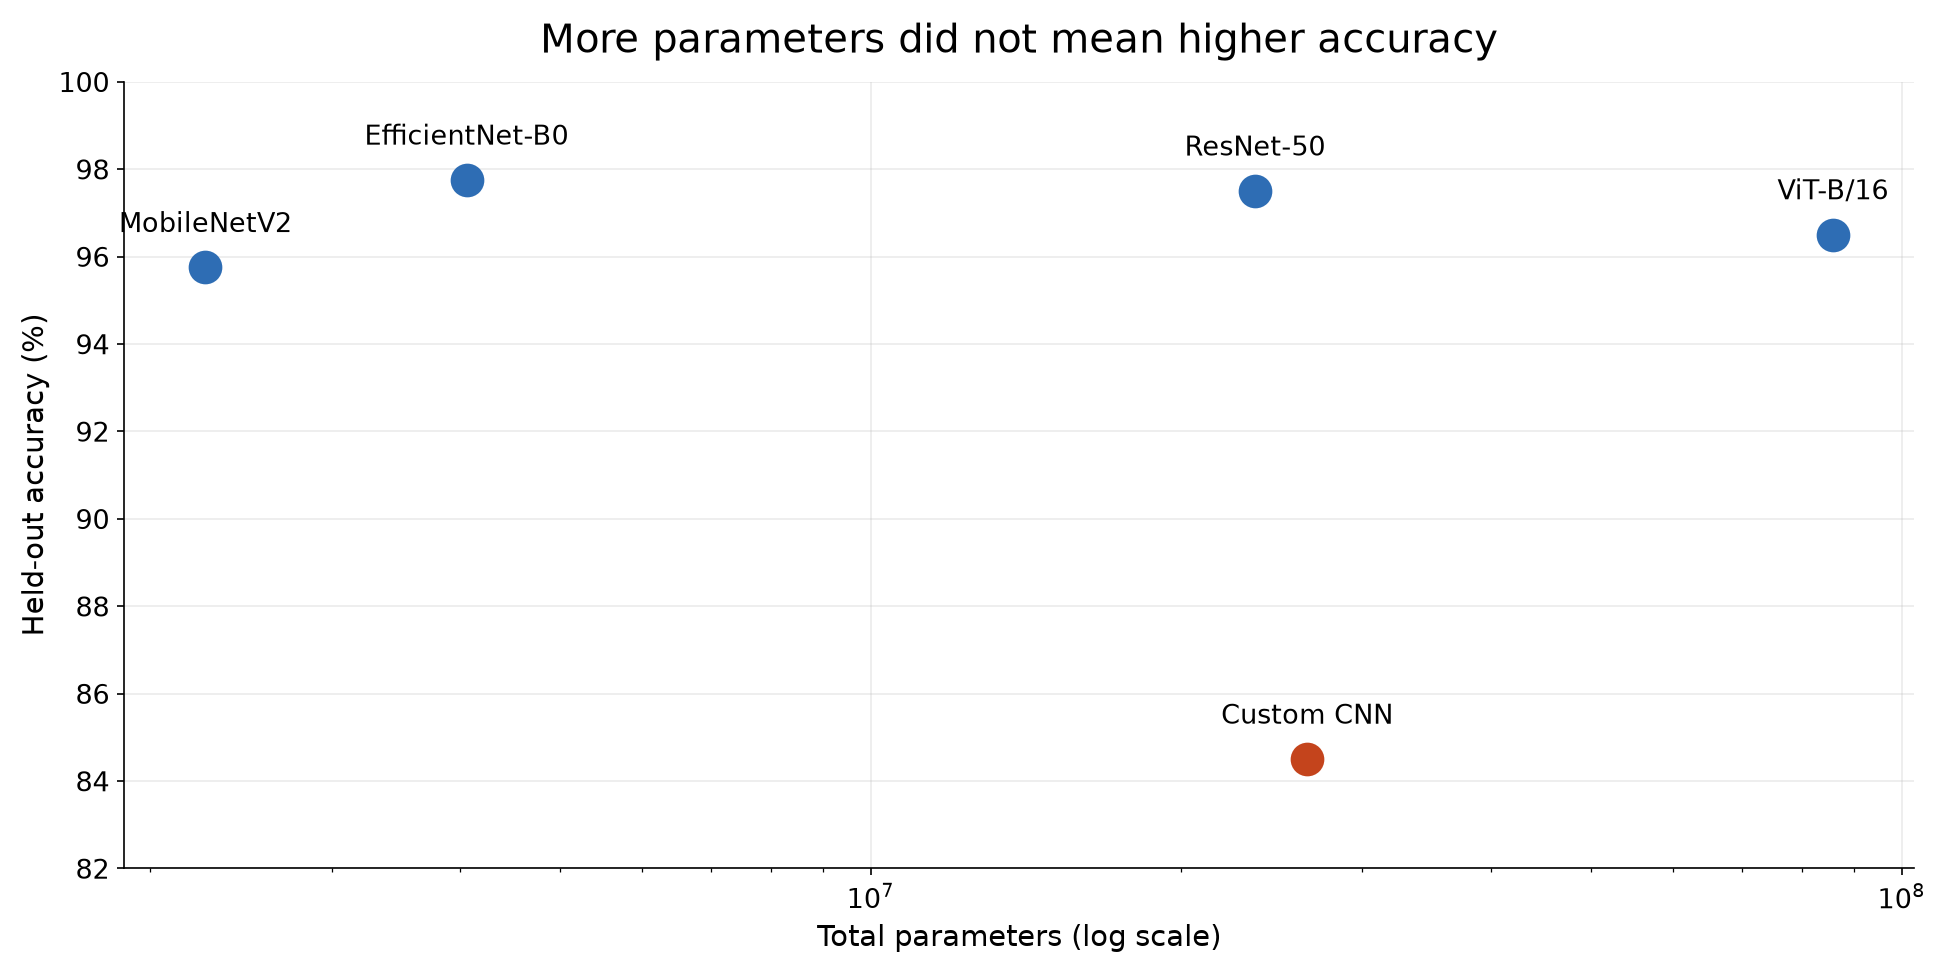
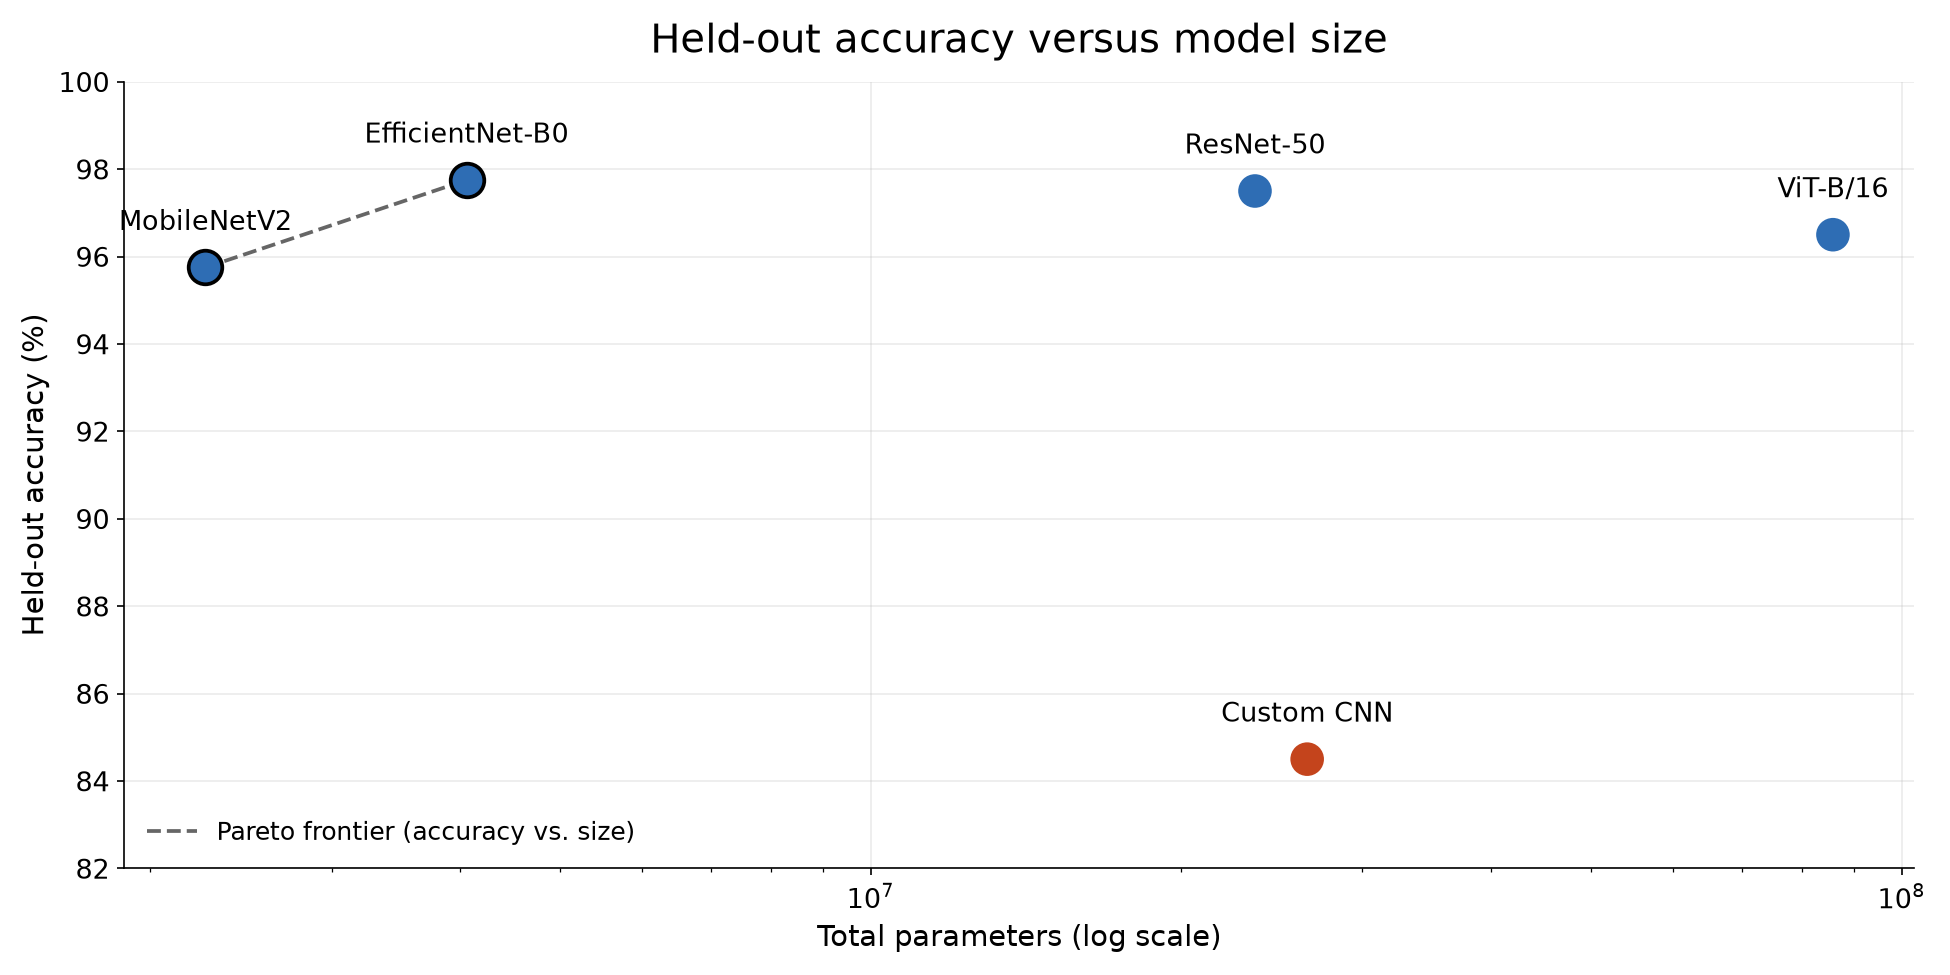
update: figs in report

diff --git a/scripts/make_slide_charts.py b/scripts/make_slide_charts.py
@@ -92,29 +92,47 @@ def slide7(rows) -> None:
 
 
 def slide8(rows) -> None:
+    """Accuracy vs parameter count, with the Pareto frontier marked.
+
+    Frontier = models not dominated on both axes (fewer parameters AND higher
+    accuracy). Used in the video and in the report's Accuracy versus Cost section.
+    """
     fig, ax = plt.subplots(figsize=(13, 6.5))
+
+    # Pareto-optimal: no other model has both fewer params and higher accuracy.
+    frontier = [r for r in rows
+                if not any(o["params"] < r["params"] and o["acc"] > r["acc"]
+                           for o in rows)]
+    frontier.sort(key=lambda r: r["params"])
+    ax.plot([r["params"] for r in frontier], [r["acc"] * 100 for r in frontier],
+            ls="--", lw=1.8, color="#666666", zorder=2,
+            label="Pareto frontier (accuracy vs. size)")
+
     for row in rows:
         colour = TRANSFER if row["pretrained"] else SCRATCH
-        ax.scatter(row["params"], row["acc"] * 100, s=230, color=colour, zorder=3)
+        on_front = row in frontier
+        ax.scatter(row["params"], row["acc"] * 100, s=260, color=colour, zorder=3,
+                   edgecolors="black" if on_front else "none",
+                   linewidths=1.8 if on_front else 0)
         ax.annotate(row["label"], (row["params"], row["acc"] * 100),
-                    textcoords="offset points", xytext=(0, 17),
+                    textcoords="offset points", xytext=(0, 18),
                     ha="center", fontsize=13)
 
     ax.set_xscale("log")
     ax.set_xlabel("Total parameters (log scale)", fontsize=14)
     ax.set_ylabel("Held-out accuracy (%)", fontsize=14)
-    ax.set_title("More parameters did not mean higher accuracy",
-                 fontsize=19, pad=14)
+    ax.set_title("Held-out accuracy versus model size", fontsize=19, pad=14)
     ax.grid(alpha=0.25, zorder=0)
     ax.tick_params(labelsize=13)
     ax.set_ylim(82, 100)
+    ax.legend(fontsize=12, loc="lower left", frameon=False)
     for side in ("top", "right"):
         ax.spines[side].set_visible(False)
 
     fig.tight_layout()
     out = FIGURES / "slide8_params_vs_score.png"
     fig.savefig(out, dpi=150, facecolor="white")
-    print(f"Saved {out}")
+    print(f"Saved {out}  (frontier: {', '.join(r['label'] for r in frontier)})")
 
 
 def slide9() -> None:

diff --git a/docs/final-report.tex b/docs/final-report.tex
@@ -1937,8 +1937,19 @@ Custom CNN      & 26{,}512{,}212 & 26{,}511{,}444 & 0.8450 & 0.8452 & $-0.0627$ 
 \end{tabular}
 \end{table}
 
-Plotting accuracy against parameter count, only two models sit on the Pareto
-frontier: MobileNetV2 (smallest) and EfficientNet-B0 (most accurate).
+\begin{figure}[htbp]
+\centering
+\includegraphics[width=0.86\linewidth]{docs/figures/slide8_params_vs_score.png}
+\caption{Held-out accuracy against total parameter count (log scale). Circled
+markers lie on the Pareto frontier: no other model in the study achieves both
+higher accuracy and a smaller parameter count. ResNet-50, ViT-B/16 and the
+custom CNN are each dominated by at least one other approach.}
+\label{fig:pareto}
+\end{figure}
+
+Figure~\ref{fig:pareto} plots accuracy against parameter count. Only two models
+sit on the Pareto frontier: MobileNetV2 (smallest) and EfficientNet-B0 (most
+accurate).
 ResNet-50 is dominated by EfficientNet-B0 --- more parameters for
 statistically indistinguishable accuracy --- and ViT is dominated by
 ResNet-50 on both axes. The custom CNN is dominated by everything: more
